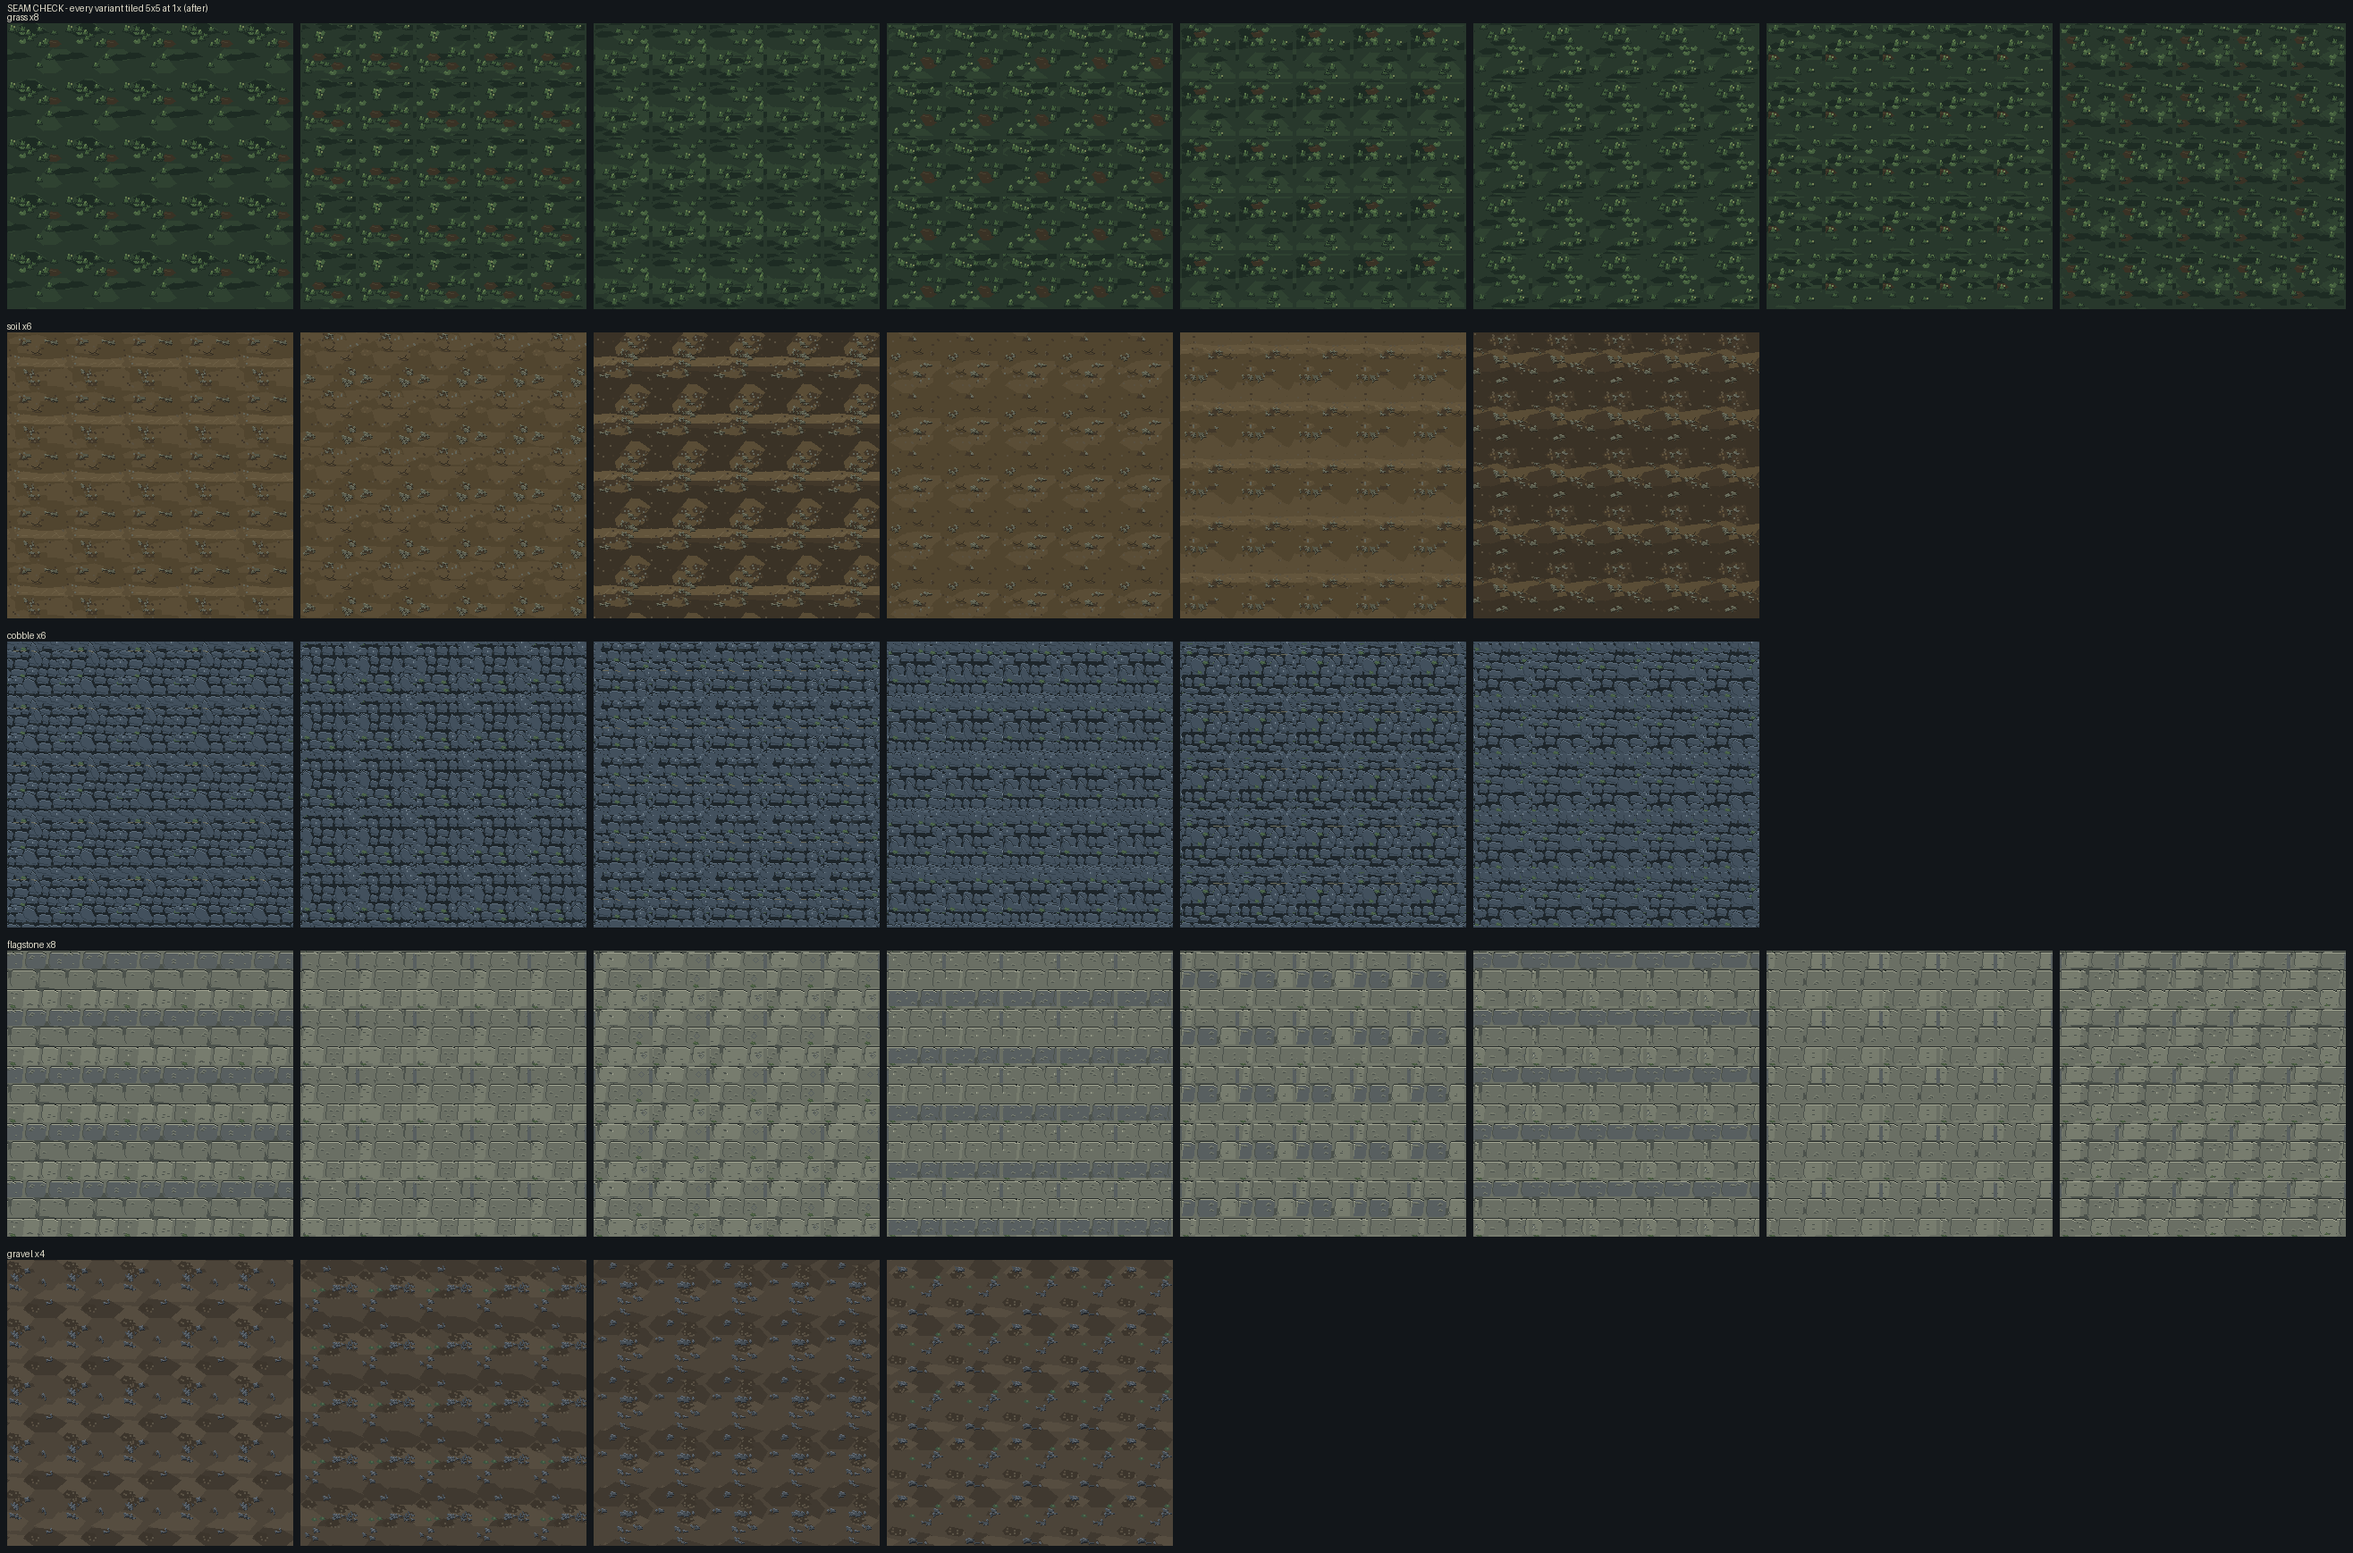
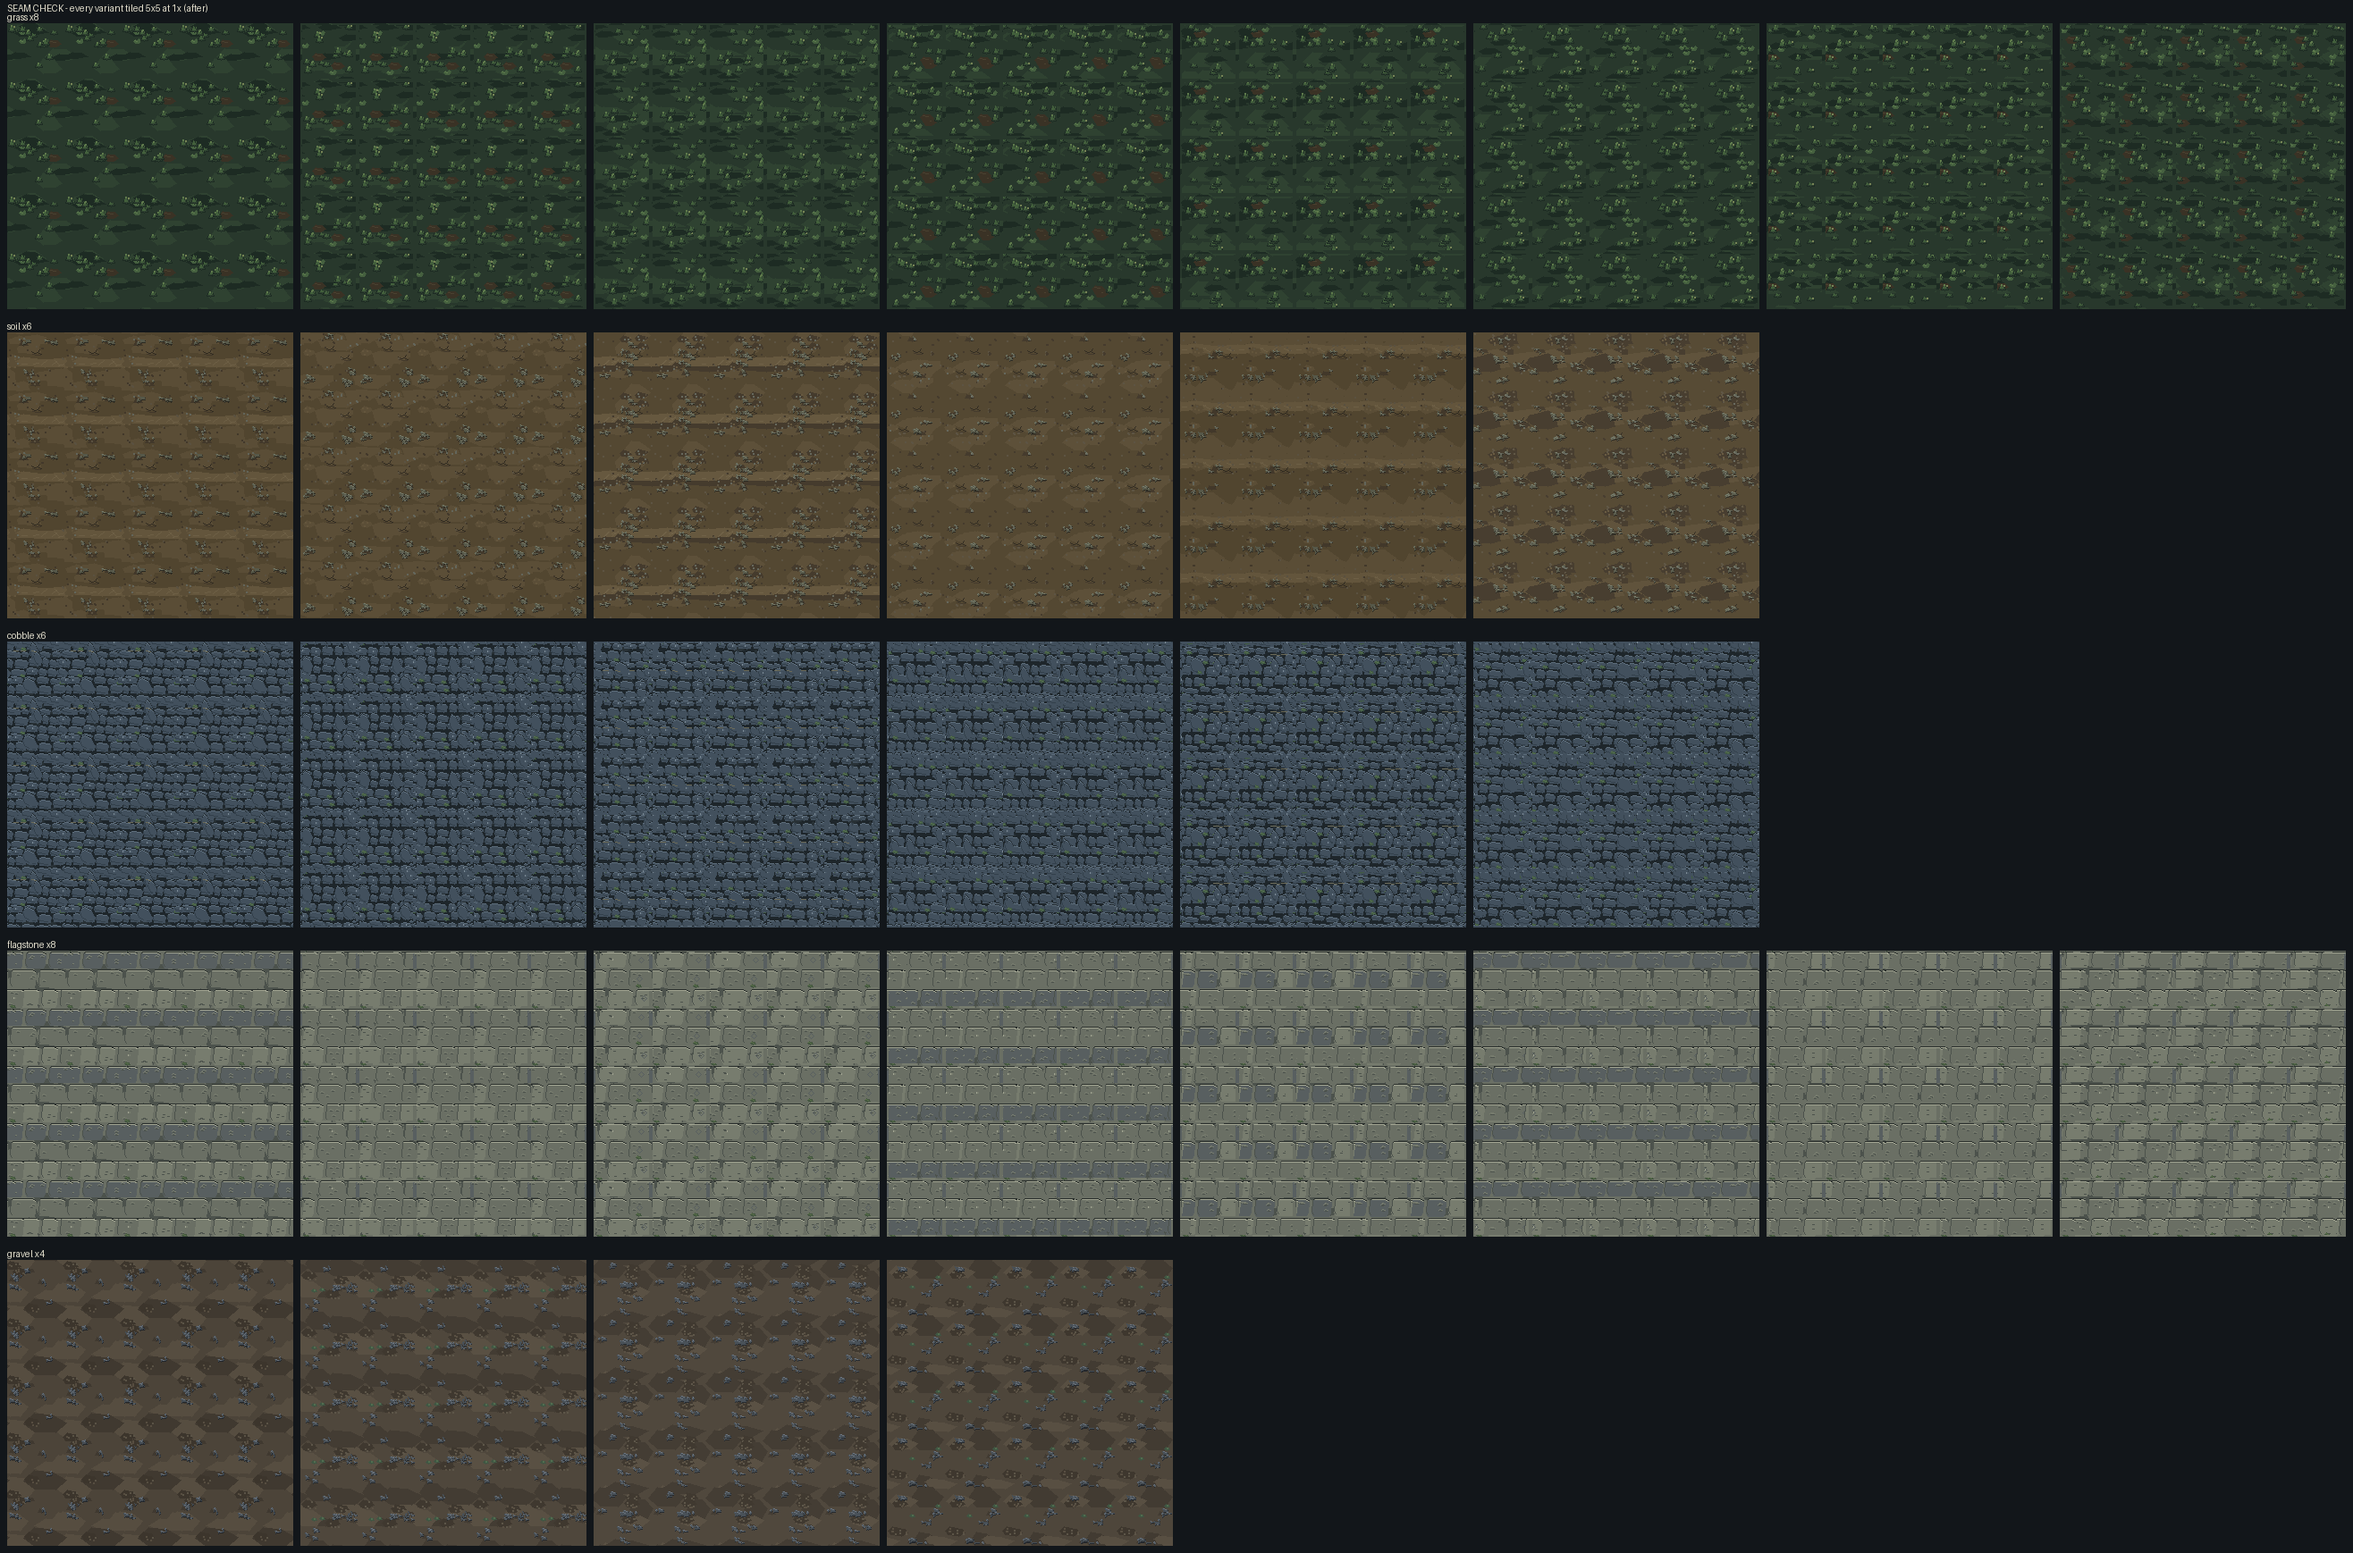
P19: equalise per-variant tone for soil/gravel (kills the hash-variant checkerboard on wide ground)

Changed region(s): [[0.6231, 0.2175, 0.7477, 0.4039], [0.2492, 0.2175, 0.3739, 0.4039]]

diff --git a/tools/mapforge_ground.py b/tools/mapforge_ground.py
@@ -335,8 +335,8 @@ def pebble_cluster(t: Torus, x, y, count, pal, r, spread=6):
 
 def soil(v: int) -> Image.Image:
     """Packed training earth: three value scales (masses / compaction / clusters)."""
-    darker = v % 3 == 2
-    t = Torus(SOIL["damp"] if darker else SOIL["body"])
+    darker = v % 3 == 2          # pattern difference only: the tone is equalised below
+    t = Torus(SOIL["body"])
     r = rng(5500 + v * 61)
 
     # scale 1 - broad earth masses, one value step apart, never harsh
@@ -505,6 +505,39 @@ def oak() -> Image.Image:
     return im
 
 
+# ---------------------------------------------------------------- tone equalisation
+def mean_luma(image: Image.Image) -> float:
+    px = image.load()
+    total, n = 0.0, 0
+    for y in range(64):
+        for x in range(64):
+            r, g, b, a = px[x, y]
+            if a:
+                total += 0.2126 * r + 0.7152 * g + 0.0722 * b
+                n += 1
+    return total / max(1, n)
+
+
+def equalize_tone(image: Image.Image, target: float, max_shift: int = 12) -> Image.Image:
+    """Shift a tile's value so every variant of an organic family has the same average.
+
+    Without this the renderer's hash-picked variants form a visible checkerboard of
+    per-tile brightness on wide ground (soil/gravel are low-frequency, so it shows).
+    Hue is untouched: every channel moves by the same offset.
+    """
+    delta = max(-max_shift, min(max_shift, round(target - mean_luma(image))))
+    if delta == 0:
+        return image
+    px = image.load()
+    for y in range(64):
+        for x in range(64):
+            r, g, b, a = px[x, y]
+            if a:
+                px[x, y] = (max(0, min(255, r + delta)), max(0, min(255, g + delta)),
+                            max(0, min(255, b + delta)), a)
+    return image
+
+
 # ---------------------------------------------------------------- export
 def main():
     manifest_path = OUT / "manifest.json"
@@ -521,8 +554,11 @@ def main():
     ]
     for name, count, fn, shared in families:
         reference = fn(0)
+        target_luma = mean_luma(reference)
         for v in range(count):
             image = fn(v)
+            if name in ("soil", "gravel"):
+                equalize_tone(image, target_luma)
             if shared:
                 for box in [(0, 0, 64, 2), (0, 62, 64, 64), (0, 0, 2, 64), (62, 0, 64, 64)]:
                     image.paste(reference.crop(box), box)
